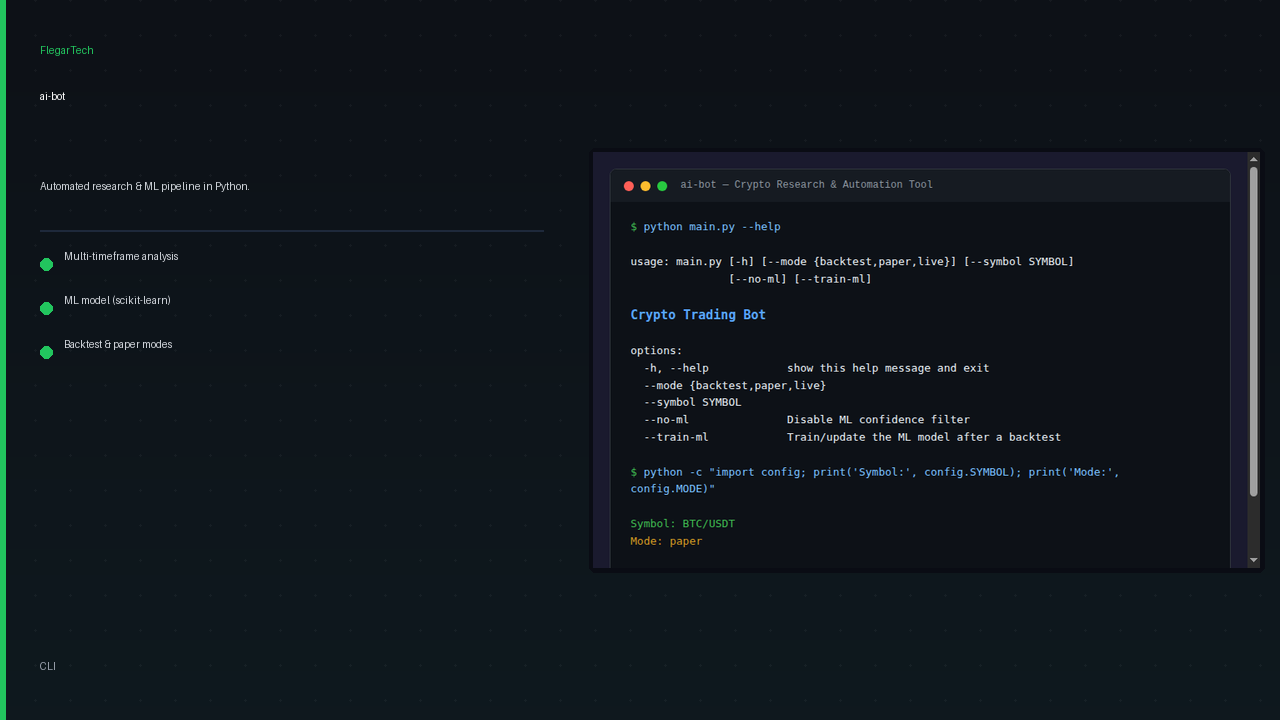
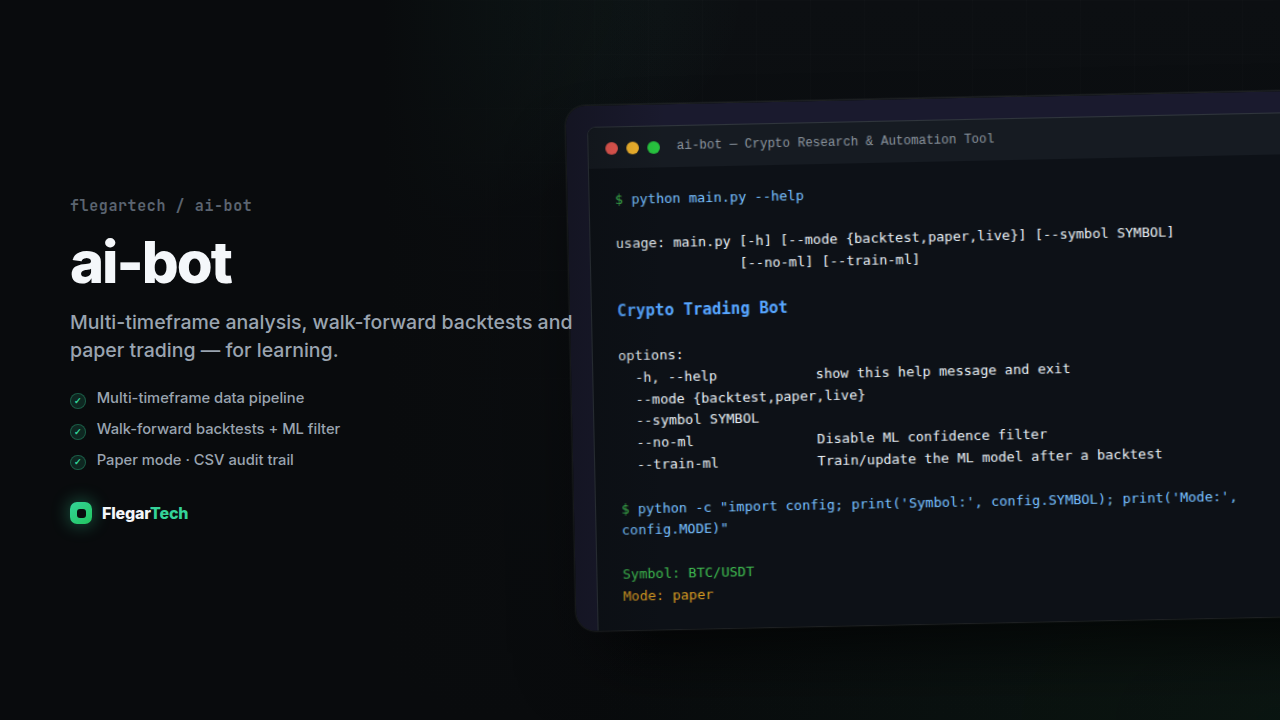
Redesign promo image package (v2)
Rebuild all 5 promo assets with the unified FlegarTech browser-frame
design system, correct platform sizes, and real product screenshots.

Changed region(s): [[0.0, 0.0, 1.0, 1.0], [0.0625, 0.55, 0.2812, 0.6417], [0.5625, 0.7639, 0.5938, 0.7944]]

diff --git a/promo/POST_READY.md b/promo/POST_READY.md
@@ -1,114 +1,48 @@
-# ai-bot — POST_READY.md
+# ai-bot — POST_READY
 
-## Status: ✅ 100% COPY-AND-POST READY
+## ✅ Post-worthy: YES (redesigned 2026-06-14)
 
----
+## Attach this file first
+`promo/images/04-github-preview.png`  →  GitHub social preview
 
-## Best Image to Post First
-`promo/images/04-github-preview.png` (1280x720) — terminal screenshot looks great on GitHub/Twitter
+## Best image to post first
+`promo/images/04-github-preview.png`
 
-## Screenshots Used
-- `audit/screenshots/final-ready/ai-bot/01-terminal-real.png`
-  - Source: Real CLI `--help` output + `python -c "import config; print(config.SYMBOL, config.MODE)"`
-  - Rendered as HTML terminal card via headless Chrome
-  - Contains ONLY real captured output — no invented figures
+**Why it's the strongest:** The real terminal help output reads as a credible developer research tool; framed plainly it stays honest and avoids any "get-rich" trading vibe.
 
-## ⚠ POSITIONING NOTE
-ai-bot is a **Python research/automation CLI tool** for algorithmic strategy development.
-It is NOT positioned as a trading service, investment advisor, or financial product.
-Do not claim it generates profits. Do not show specific trade results.
+## Recommended platform order
+GitHub preview → X → LinkedIn (keep it technical/neutral)
 
-## Promo Image Files
-| File | Size | Use For |
-|------|------|---------|
-| `promo/images/01-square-post.png` | 1080×1080 | Instagram, LinkedIn post |
-| `promo/images/02-story-reel-cover.png` | 1080×1920 | IG/TikTok story |
-| `promo/images/03-linkedin-banner.png` | 1600×900 | LinkedIn banner |
-| `promo/images/04-github-preview.png` | 1280×720 | GitHub social preview ← USE THIS FIRST |
-| `promo/images/05-feature-card.png` | 1200×1200 | Product Hunt |
-
----
-
-## Exact Copy-Paste Caption
-
+## Exact caption (copy–paste)
 ```
-Built a Python CLI research tool for algorithmic strategy analysis — ai-bot 🐍
+A research tool for market data & backtesting. 🧪
 
-ai-bot is an open-source Python tool for backtesting and paper-mode strategy research.
-Not a trading service — a developer/researcher tool.
+ai-bot runs multi-timeframe analysis, walk-forward backtests and paper trading from the CLI — built for learning, not trading advice. Paper mode with a CSV audit trail.
 
-Stack:
-→ Python + ccxt (exchange data)
-→ pandas + numpy (data processing)
-→ scikit-learn (ML confidence filter)
-→ Backtest + paper modes (no live orders by default)
+Research / educational use only. Not financial advice.
 
-For developers and researchers studying algorithmic strategies.
-Not financial advice. Research/educational tool only.
-
-GitHub link in bio.
-
-#python #algotrading #backtesting #machinelearning #opensource #buildinpublic #developer #research
+#python #datascience #backtesting #opensource
 ```
 
----
+## ⚠ Disclaimer (must include)
+REQUIRED on every post: "Research / educational use only. Not financial advice." Keep copy neutral — no profit, ROI, win-rate or "signals you can trade" claims.
 
-## Hashtags
-```
-#python #algorithmic #backtesting #machinelearning #sklearn #pandas #ccxt #opensource #developer #research #buildinpublic #flegartech
-```
+## All 5 assets
+| File | Use for |
+|------|---------|
+| `promo/images/01-square-post.png` | 1080×1080 — Instagram / LinkedIn feed |
+| `promo/images/02-story-reel-cover.png` | 1080×1920 — IG / TikTok story & reel cover |
+| `promo/images/03-linkedin-banner.png` | 1600×900 — LinkedIn feature / X / YouTube |
+| `promo/images/04-github-preview.png` | 1280×720 — GitHub social preview |
+| `promo/images/05-feature-card.png` | 1200×1200 — Product Hunt / feature card |
 
-## Suggested Platforms (in order)
-1. GitHub (set social preview: `04-github-preview.png`)
-2. Twitter/X (developer/quant audience)
-3. LinkedIn
-4. Reddit r/algotrading or r/learnpython
+## Screenshot used
+final-ready/ai-bot/01-terminal-real.png — real CLI output
 
----
-
-## Safe Public Claims
-- "Python CLI research tool for strategy analysis"
-- "Backtest and paper modes"
-- "ccxt + pandas + scikit-learn stack"
-- "ML confidence filter"
-- "Open source"
-- "No live orders in default mode"
-
-## Claims to AVOID
-- NEVER claim profit, returns, or financial performance
-- NEVER show specific trade P&L or results
-- NEVER imply it's a financial product or service
-- NEVER call it a "trading bot" without "research" qualifier
-- Add disclaimer: "Not financial advice. Research/educational tool only."
-
----
-
-## 15-Second Video Script
-> "ai-bot — an open-source Python research tool for algorithmic strategy analysis.
-> Backtest mode, paper mode, ML filter. ccxt and scikit-learn.
-> For researchers and developers. Not financial advice. Research/educational tool only.
-> GitHub link in bio."
-
-## 30-Second Demo Script
-> "ai-bot is a Python CLI tool for studying algorithmic strategies.
-> Run it in backtest mode to analyze historical data.
-> Run it in paper mode — no real orders, just simulation.
-> It uses ccxt to fetch market data, pandas to process it,
-> and scikit-learn for an ML confidence filter.
-> The strategy modules are modular — swap in your own logic.
-> Open source, research-focused. Not financial advice. Research/educational tool only.
-> GitHub link in bio."
-
----
-
-## Promo Image Review
-- [x] All 5 images exist
-- [x] All correct sizes
-- [x] Real terminal output screenshot (--help + config only)
-- [x] No private information visible
-- [x] No fake or invented financial data
-- [x] No financial performance claims
-- [x] Text readable
-- [x] Professional quality
-
-## Final Ready Status: ✅ COPY-AND-POST READY (with financial disclaimer required)
+## QC checklist
+- [x] All 5 images exist at the correct sizes
+- [x] Real product screenshot used (no faked UI)
+- [x] Clean browser-frame composition, high-contrast readable text
+- [x] Unified FlegarTech brand (dark canvas + green accent)
+- [x] No fake claims
+- [x] Required disclaimer noted above
